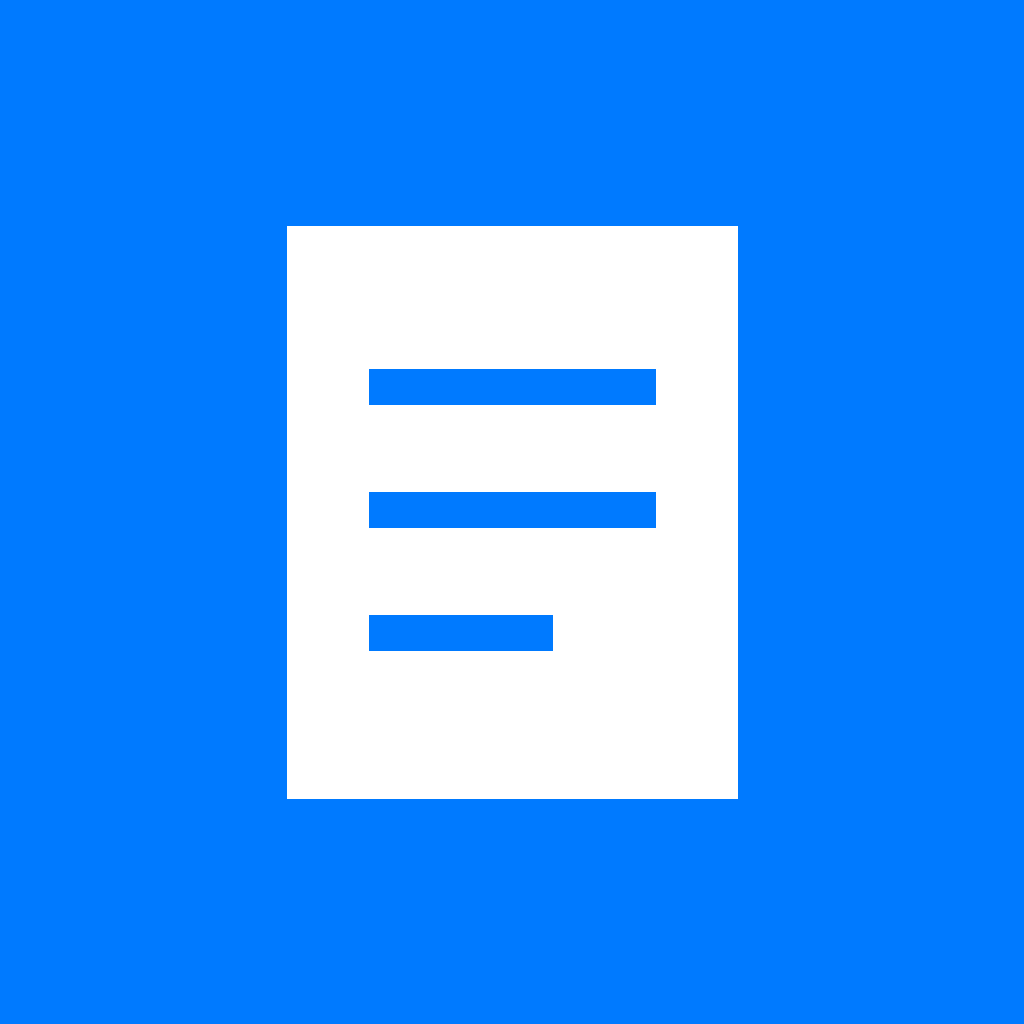
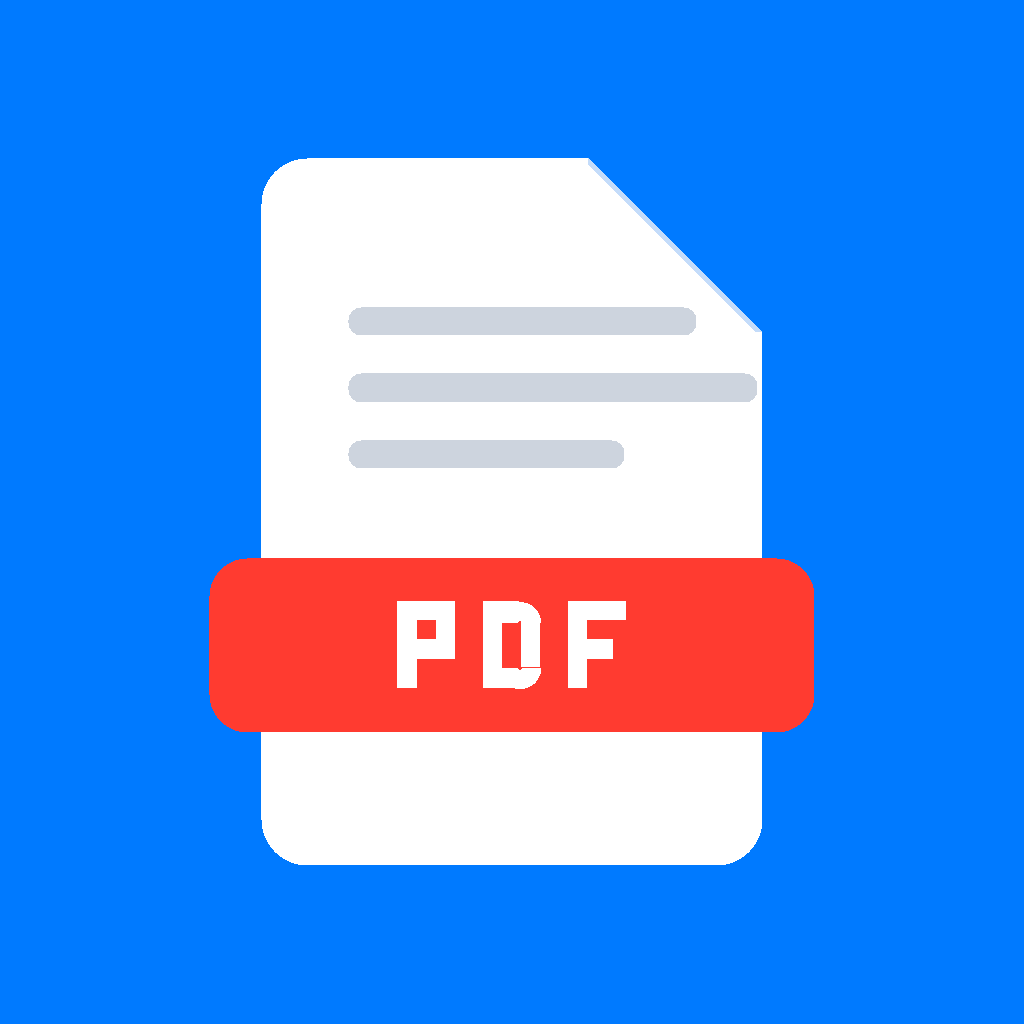
decisões do Alexandre, ícone com a palavra PDF e OCR distribuído
Importar PDF sai do MVP (roadmap 28.8); prévia e reordenar-por-arrastar
ficam como estão (28.9 e 28.10); lançamento iOS primeiro. Ícone novo:
folha com canto dobrado e tarja vermelha escrita PDF.

A camada de OCR passou a espalhar os trechos verticalmente na ordem de
leitura, para o realce da busca cair na altura certa da página em vez de
sempre no topo. Corrige também um Pressable desabilitado que engolia o
toque do interruptor de OCR na tela de Opções.

Changed region(s): [[0.1875, 0.1562, 0.8125, 0.8438]]

diff --git a/src/services/pdfBuilder.ts b/src/services/pdfBuilder.ts
@@ -17,8 +17,8 @@ export type PaginaParaPdf = {
   largura: number;
   altura: number;
   filtro: Filtro;
-  /** Texto reconhecido, quando o OCR rodou (regra 11.9). */
-  textoOcr?: string;
+  /** Trechos reconhecidos pelo OCR, na ordem de leitura (regra 11.9). */
+  trechosOcr?: string[];
   /** Faces já posicionadas, usado só na fusão frente e verso (regra 11.6.1). */
   faces?: { base64: string; retangulo: Retangulo }[];
 };
@@ -81,16 +81,31 @@ function htmlPaginaFaces(p: PaginaParaPdf): string {
 /**
  * Camada de texto invisível sobre a página (regra 11.9).
  *
- * O texto fica com `color:transparent` acima da imagem, então o PDF sai
- * pesquisável e copiável sem alterar a aparência. Trecho vazio não entra.
+ * O texto fica com `color:transparent` acima da imagem: o PDF sai pesquisável
+ * e copiável sem mudar NADA na aparência — impresso ou na tela, o arquivo é
+ * idêntico ao PDF sem OCR.
  *
- * LIMITE CONHECIDO: sem as coordenadas de cada palavra (ver DECISOES.md, Q1),
- * o texto vai como um bloco corrido — a busca e a cópia funcionam, mas a
- * seleção não acompanha visualmente a posição na imagem.
+ * LIMITE CONHECIDO (ver DECISOES.md, Q1): a biblioteca de OCR devolve os
+ * trechos em ordem de leitura, mas SEM as coordenadas de cada palavra. Não dá
+ * para colar cada palavra em cima da sua posição real.
+ *
+ * O QUE FAZEMOS COM ISSO: em vez de despejar tudo num bloco só no topo,
+ * espalhamos os trechos verticalmente na proporção da ordem de leitura — o
+ * primeiro trecho no alto, o último embaixo. Assim, quando alguém busca uma
+ * palavra, o realce do visualizador cai na ALTURA aproximadamente certa da
+ * página, em vez de sempre no topo. Não é a posição exata (a horizontal e a
+ * linha continuam aproximadas), mas é o mais perto que dá sem coordenadas.
  */
-function htmlCamadaOcr(texto?: string): string {
-  if (!texto || texto.trim().length === 0) return '';
-  return `<div class="ocr">${escapar(texto)}</div>`;
+function htmlCamadaOcr(trechos?: string[]): string {
+  const limpos = (trechos ?? []).map((t) => t.trim()).filter((t) => t.length > 0);
+  if (limpos.length === 0) return '';
+  const faixas = limpos
+    .map((texto, i) => {
+      const topo = (i / limpos.length) * 100;
+      return `<div class="ocr-linha" style="top:${topo.toFixed(2)}%">${escapar(texto)}</div>`;
+    })
+    .join('');
+  return `<div class="ocr">${faixas}</div>`;
 }
 
 /**
@@ -110,7 +125,7 @@ export function montarHtml(opcoes: OpcoesPdf): string {
   const paginas = opcoes.paginas
     .map((p) => {
       const corpo = p.faces?.length ? htmlPaginaFaces(p) : htmlPaginaSimples(p);
-      return `<section class="pagina">${corpo}${htmlCamadaOcr(p.textoOcr)}</section>`;
+      return `<section class="pagina">${corpo}${htmlCamadaOcr(p.trechosOcr)}</section>`;
     })
     .join('');
 
@@ -139,9 +154,16 @@ export function montarHtml(opcoes: OpcoesPdf): string {
     width: ${util.largura}px; height: ${util.altura}px;
     color: transparent;
     font-family: Helvetica, Arial, sans-serif;
-    font-size: 4px; line-height: 1.15;
     overflow: hidden;
     z-index: 2;
+  }
+  /* Cada trecho reconhecido ganha a sua faixa de altura, na proporção da
+     ordem de leitura — ver o comentário em htmlCamadaOcr. */
+  .ocr-linha {
+    position: absolute;
+    left: 0; width: 100%;
+    font-size: 6px; line-height: 1.1;
+    white-space: pre-wrap;
   }
 </style></head><body>${paginas}</body></html>`;
 }

diff --git a/src/components/base.tsx b/src/components/base.tsx
@@ -212,24 +212,40 @@ export function Celula({
 }) {
   const { t } = useTema();
   const cor = destrutiva ? t.erro : acao ? t.acao : t.texto;
-  return (
-    <Pressable
-      accessibilityRole={aoTocar ? 'button' : undefined}
-      accessibilityLabel={titulo}
-      accessibilityState={{ disabled: !!desabilitada }}
-      disabled={desabilitada || !aoTocar}
-      onPress={aoTocar}
-      style={({ pressed }) => [
-        est.celula,
-        { backgroundColor: pressed && aoTocar ? t.preenchimentoSutil : 'transparent', opacity: desabilitada ? 0.45 : 1 },
-      ]}
-    >
+
+  const conteudo = (
+    <>
       <Text style={[TIPO.corpo, { color: cor, flex: 1 }]} numberOfLines={1}>
         {titulo}
       </Text>
       {valor ? <Text style={[TIPO.corpo, { color: t.textoSecundario }]}>{valor}</Text> : null}
       {direita}
       {chevron ? <Ionicons name="chevron-forward" size={16} color={t.textoTerciario} /> : null}
+    </>
+  );
+
+  // A célula só vira Pressable quando ela mesma faz alguma coisa. Um Pressable
+  // desabilitado em volta engoliria o toque de um filho interativo — foi
+  // exatamente isso que travou o interruptor de OCR na tela de Opções.
+  if (!aoTocar) {
+    return (
+      <View style={[est.celula, { opacity: desabilitada ? 0.45 : 1 }]}>{conteudo}</View>
+    );
+  }
+
+  return (
+    <Pressable
+      accessibilityRole="button"
+      accessibilityLabel={titulo}
+      accessibilityState={{ disabled: !!desabilitada }}
+      disabled={desabilitada}
+      onPress={aoTocar}
+      style={({ pressed }) => [
+        est.celula,
+        { backgroundColor: pressed ? t.preenchimentoSutil : 'transparent', opacity: desabilitada ? 0.45 : 1 },
+      ]}
+    >
+      {conteudo}
     </Pressable>
   );
 }

diff --git a/src/services/__tests__/pdfBuilder.test.ts b/src/services/__tests__/pdfBuilder.test.ts
@@ -65,13 +65,29 @@ describe('montarHtml', () => {
 
   it('11.9 — a camada de OCR é invisível e fica acima da imagem', () => {
     const html = montarHtml({
-      paginas: [{ ...pagina(), textoOcr: 'CONTRATO DE LOCACAO' }],
+      paginas: [{ ...pagina(), trechosOcr: ['CONTRATO DE LOCACAO'] }],
       tamanhoPapel: 'a4',
       orientacao: 'retrato',
     });
     expect(html).toContain('CONTRATO DE LOCACAO');
     expect(html).toContain('color: transparent');
     expect(html).toContain('z-index: 2');
+  });
+
+  it('11.9 — os trechos são espalhados verticalmente na ordem de leitura', () => {
+    const html = montarHtml({
+      paginas: [{ ...pagina(), trechosOcr: ['PRIMEIRO', 'SEGUNDO', 'TERCEIRO', 'QUARTO'] }],
+      tamanhoPapel: 'a4',
+      orientacao: 'retrato',
+    });
+    // Sem coordenadas do OCR, a altura relativa é a única pista que temos:
+    // o primeiro trecho no topo, o último perto do rodapé.
+    expect(html).toContain('top:0.00%');
+    expect(html).toContain('top:25.00%');
+    expect(html).toContain('top:50.00%');
+    expect(html).toContain('top:75.00%');
+    const ordem = ['PRIMEIRO', 'SEGUNDO', 'TERCEIRO', 'QUARTO'].map((t) => html.indexOf(t));
+    expect(ordem).toEqual([...ordem].sort((a, b) => a - b));
   });
 
   it('não cria camada de OCR quando não há texto reconhecido', () => {
@@ -81,7 +97,7 @@ describe('montarHtml', () => {
 
   it('escapa o texto do OCR para não quebrar a marcação', () => {
     const html = montarHtml({
-      paginas: [{ ...pagina(), textoOcr: '<script>alert(1)</script> & "aspas"' }],
+      paginas: [{ ...pagina(), trechosOcr: ['<script>alert(1)</script> & "aspas"'] }],
       tamanhoPapel: 'a4',
       orientacao: 'retrato',
     });

diff --git a/src/features/geracao/gerar.ts b/src/features/geracao/gerar.ts
@@ -84,7 +84,7 @@ export async function gerar(
     for (let i = 0; i < pedido.paginas.length; i++) {
       aoProgredir?.({ fase: 'ocr', pagina: i + 1, total });
       const r = await reconhecerTexto(pedido.paginas[i]!.uri);
-      if (r.texto) paginasPdf[i]!.textoOcr = r.texto;
+      if (r.trechos.length > 0) paginasPdf[i]!.trechosOcr = r.trechos.map((t) => t.texto);
       else ocrFalhou = true;
     }
   }

diff --git a/spec.md b/spec.md
@@ -2,11 +2,12 @@
 
 | Campo | Valor |
 |---|---|
-| **Versão do documento** | 1.5 |
+| **Versão do documento** | 1.6 |
 | **Responsável de produto** | Alexandre Siqueira (Dab Lab) |
 | **Status** | rascunho — aguardando revisão da seção 24 |
 | **Data** | 26 de agosto de 2026 |
 | **Mudanças na 1.1** | Stack fixada em **Expo SDK 56** (era 57) — nova seção 4.5 com o porquê; piso iOS 16.4; requisitos de máquina (Xcode 26.4, Node 20.19.4, TS 6.0.3); pegadinhas do SDK 56 na tabela 4.2; assunção A13 |
+| **Mudanças na 1.6** | Decisões do Alexandre em 27/08/2026: **importar PDF sai do MVP** (vai para o roadmap 28.8) · prévia e reordenar-por-arrastar ficam como estão · **lançamento iOS primeiro**, Android depois (fecha 25.Q3) · ícone definido |
 | **Mudanças na 1.5** | Exceção declarada na regra de cor: ação de deslizar-para-apagar usa o padrão do iOS (vermelho preenchido) · §10.1 e §11.6 deixam explícito que **Novo PDF** é o caminho sem preset e que não existe cartão "Outros" |
 | **Mudanças na 1.4** | **Reposicionamento:** o foco sai de documento de identidade e vai para **papel que ninguém digitaliza por você** — contrato, imóvel, procuração, nota fiscal e boleto. CPF e título de eleitor saíram; RG e CNH continuam, em segundo plano. §1, §3, §7.2, §8.7, §11.1, §11.6, §11.10 e §15 reescritas · **presets passaram a ser gratuitos** (§11.1) — o que se paga é capacidade, e presets são só pré-configuração · nova regra 11.10.1: piso de compressão do boleto por causa do código de barras |
 | **Mudanças na 1.3** | Stack fixada em **Expo SDK 55** (era 56) — o SDK 56 exige Xcode 26.4, que exige macOS Tahoe, que o Alexandre não tem; §4.5 reescrita · piso iOS 15.1 · pegadinhas trocadas para as do SDK 55 · §16 alinhada aos tokens reais do design system (raio 14, margem 20, cinzas do Hora do Remédio) |
@@ -91,7 +92,7 @@ O Cenário A, em pé e com pressa. É por causa dele que a captura precisa ser a
 |---|---|
 | D1 | Captura por câmera com detecção automática de bordas e correção de perspectiva (scanner nativo) |
 | D2 | Importar imagens da galeria de fotos |
-| D3 | Importar imagens e PDFs do app Arquivos |
+| D3 | Importar **imagens** do app Arquivos *(PDF saiu do MVP — ver 28.8)* |
 | D4 | Montagem do documento: reordenar, girar, recortar e excluir páginas |
 | D5 | Filtros de digitalização: original, preto e branco, escala de cinza, clarear |
 | D6 | Geração do PDF (A4 e Carta, retrato e paisagem) |
@@ -1351,8 +1352,8 @@ Página única; 50 páginas (limite); documento muito escuro; foto tremida; PDF 
 |---|---|---|---|
 | **Q1** | Se a validação **V4/R3** falhar (sem bounding boxes), o OCR sai do MVP ou trocamos de biblioteca? | Alexandre | No fim do épico 8.1 — **bloqueia o 8.8** |
 | **Q2** | Se a validação **V1/R1** falhar nas duas plataformas, vamos para o plano B (config plugin próprio) ou plano C (captura manual)? | Alexandre | No fim do épico 8.1 — **bloqueia todo o resto** |
-| **Q3** | Lançar nas duas lojas ao mesmo tempo, ou iOS primeiro e Android depois de duas semanas de uso real? | Alexandre | Antes do épico 8.11 |
-| **Q4** | O ícone é encomendado ou gerado? Qual a direção? | Alexandre | Antes do épico 8.11 |
+| ~~Q3~~ | ~~Lançar nas duas lojas ao mesmo tempo?~~ **DECIDIDO em 27/08/2026: iOS primeiro.** O Android sai depois, com o aprendizado do uso real. | — | ✅ |
+| ~~Q4~~ | ~~Ícone encomendado ou gerado?~~ **DECIDIDO em 27/08/2026:** folha branca com canto dobrado sobre azul de sistema, com tarja vermelha escrita **PDF** — a palavra no desenho é o que chama atenção na loja. Em `assets/icon.png`. | — | ✅ |
 | **Q5** | O **Quando Vence?** ganha alguma menção cruzada (por exemplo, um item nos Ajustes), ou os apps ficam totalmente independentes? | Alexandre | Antes do épico 8.10 |
 
 ---
@@ -1433,6 +1434,27 @@ Traduzir os textos da seção 15. A seção 17.7 já obriga tudo a viver num arq
 
 ### 28.6 v3 — iPad e tablet
 Layout de duas colunas na montagem, grade maior. Mudança de layout, não de arquitetura.
+
+### 28.8 v2 — Importar PDF
+
+Trazer um PDF de fora e usar as páginas dele na montagem. **Saiu do MVP em
+27/08/2026 por decisão do Alexandre**: transformar página de PDF em imagem
+exige um renderizador (PDFKit no iOS, PdfRenderer no Android) que nenhuma API
+do Expo expõe, e o cenário que motivou o app é papel na mão, não PDF de fora.
+Quando entrar, o caminho mais barato é empacotar o `pdf.js` num WebView
+oculto — funciona offline, ao custo de ~1 MB de bundle e da dependência
+`react-native-webview`.
+
+### 28.9 v2 — Prévia do PDF dentro do app
+
+Hoje a tela 10.11 mostra os dados do arquivo e abre a visualização no sistema.
+Renderizar a página dentro do app depende da mesma dependência de
+visualizador da 28.8 — as duas entram juntas ou nenhuma entra.
+
+### 28.10 v2 — Reordenar páginas arrastando
+
+A montagem reordena por setas ◀ ▶ na página selecionada. Arrastar é o gesto
+do critério 8.3.2 e fica para quando houver aparelho para testar direito.
 
 ### 28.7 v2 — Atalho de compartilhamento do sistema
 Receber imagem compartilhada de outro app e cair direto na montagem. Elimina passos do Cenário B. Exige extensão de compartilhamento no iOS e intent filter no Android.

diff --git a/DECISOES.md b/DECISOES.md
@@ -32,7 +32,7 @@ visual da seleção com a imagem. Tudo isso está isolado em
 está 95% entregue, e B é a única opção que mexe no tamanho do binário e no
 risco de New Architecture.
 
-### Q2 — importar PDF ficou de fora
+### ~~Q2~~ — importar PDF ficou de fora · **DECIDIDO: fica fora** (27/08)
 
 O item **D3 do escopo** diz "importar imagens **e PDFs** do app Arquivos". Só as
 imagens foram implementadas: transformar página de PDF em imagem exige um
@@ -47,24 +47,32 @@ roadmap e assumir que o app é papel → PDF, não PDF → PDF.
 
 **Minha recomendação: (3).** O cenário que motivou o app é papel na mão.
 
-### Q3 — prévia do PDF não renderiza a página
+### ~~Q3~~ — prévia do PDF não renderiza a página · **DECIDIDO: fica como está** (27/08)
 
 A tela 10.11 mostra os dados do arquivo e abre a visualização **no sistema**,
 que já tem visualizador nativo. Renderizar dentro do app exige a mesma
 dependência de visualizador da Q2. Mesma recomendação: deixar como está.
 
-### Q4 — reordenar por arrastar
+### ~~Q4~~ — reordenar por arrastar · **DECIDIDO: fica como está por enquanto** (27/08)
 
 A montagem reordena por **setas ◀ ▶** na barra de ferramentas da página
 selecionada, não por arrastar. O critério 8.3.2 pede arrastar. Funciona, mas
 não é o gesto especificado. Implementar arrastar é ~100 linhas com
 `reanimated` + `gesture-handler`, e é difícil de verificar sem device.
 
-### Q5 — as três de sempre
+### ~~Q5~~ — lançamento e ícone · **DECIDIDO** (27/08)
 
-Continuam abertas as perguntas 25.Q3 (lançar nas duas lojas juntas ou iOS
-primeiro), 25.Q4 (ícone: encomendado ou gerado) e 25.Q5 (menção cruzada ao
-Quando Vence?).
+- **iOS primeiro**, Android depois.
+- **Ícone:** folha branca com canto dobrado sobre azul de sistema, com tarja
+  vermelha escrita **PDF**. Já está em `assets/icon.png`.
+- Continua aberta só a 25.Q5 do spec (menção cruzada ao Quando Vence?), que
+  não bloqueia nada.
+
+### Q1 continua aberta — e ganhou uma melhoria
+
+Ver a seção 1 acima. Desde então a camada de OCR passou a **espalhar os
+trechos verticalmente na ordem de leitura**, o que faz o realce da busca cair
+na altura aproximadamente certa da página em vez de sempre no topo.
 
 ---
 
